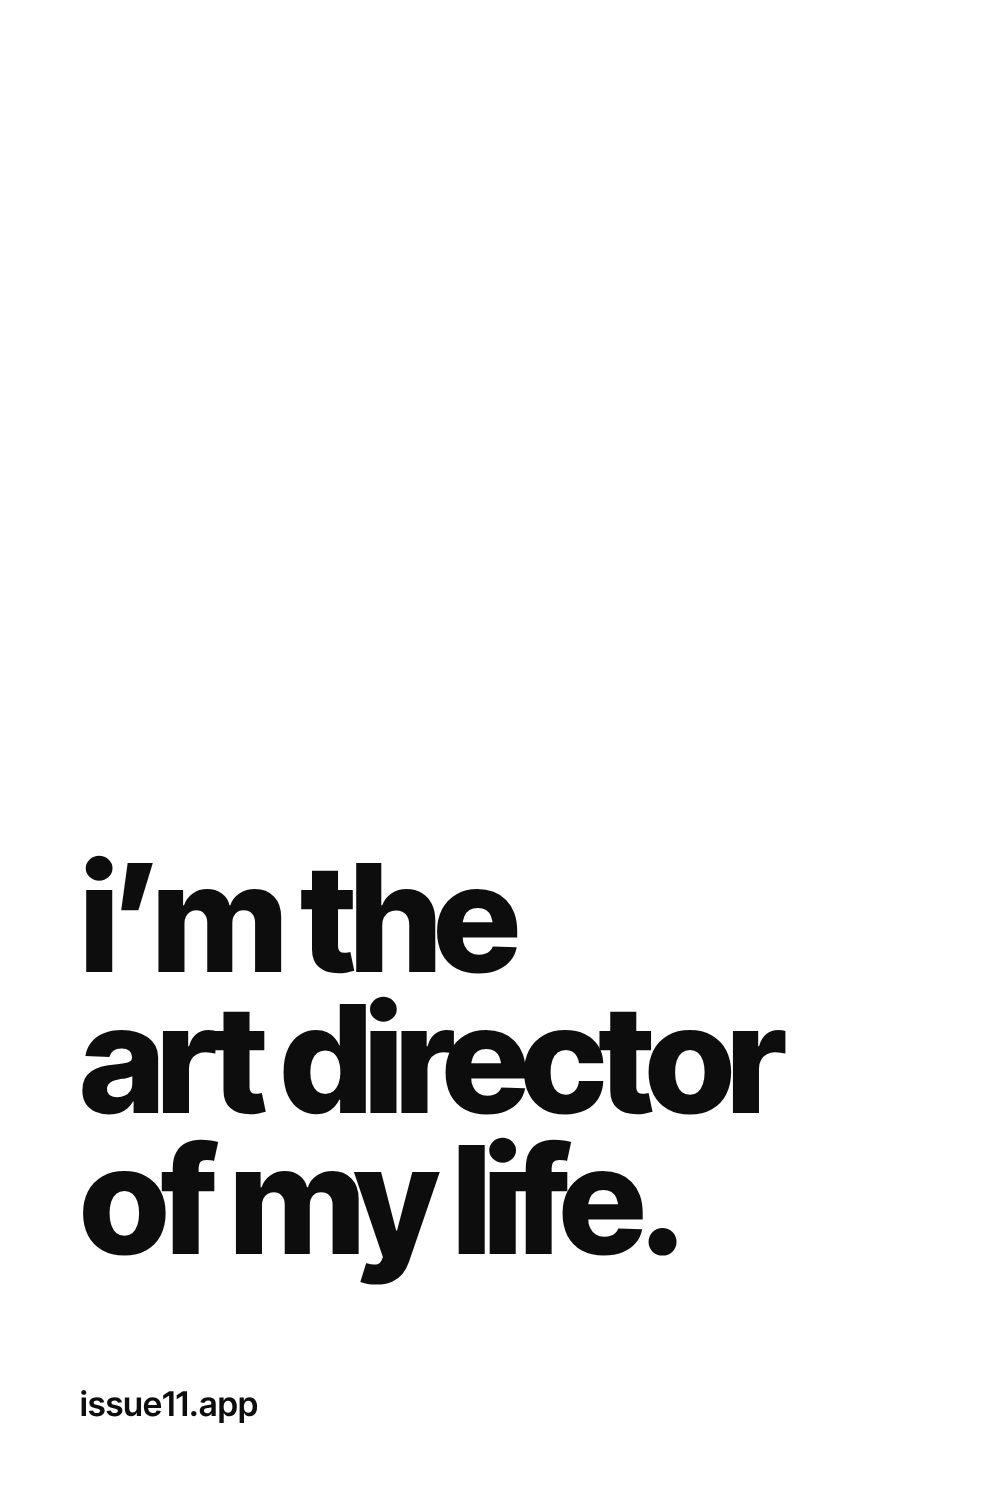
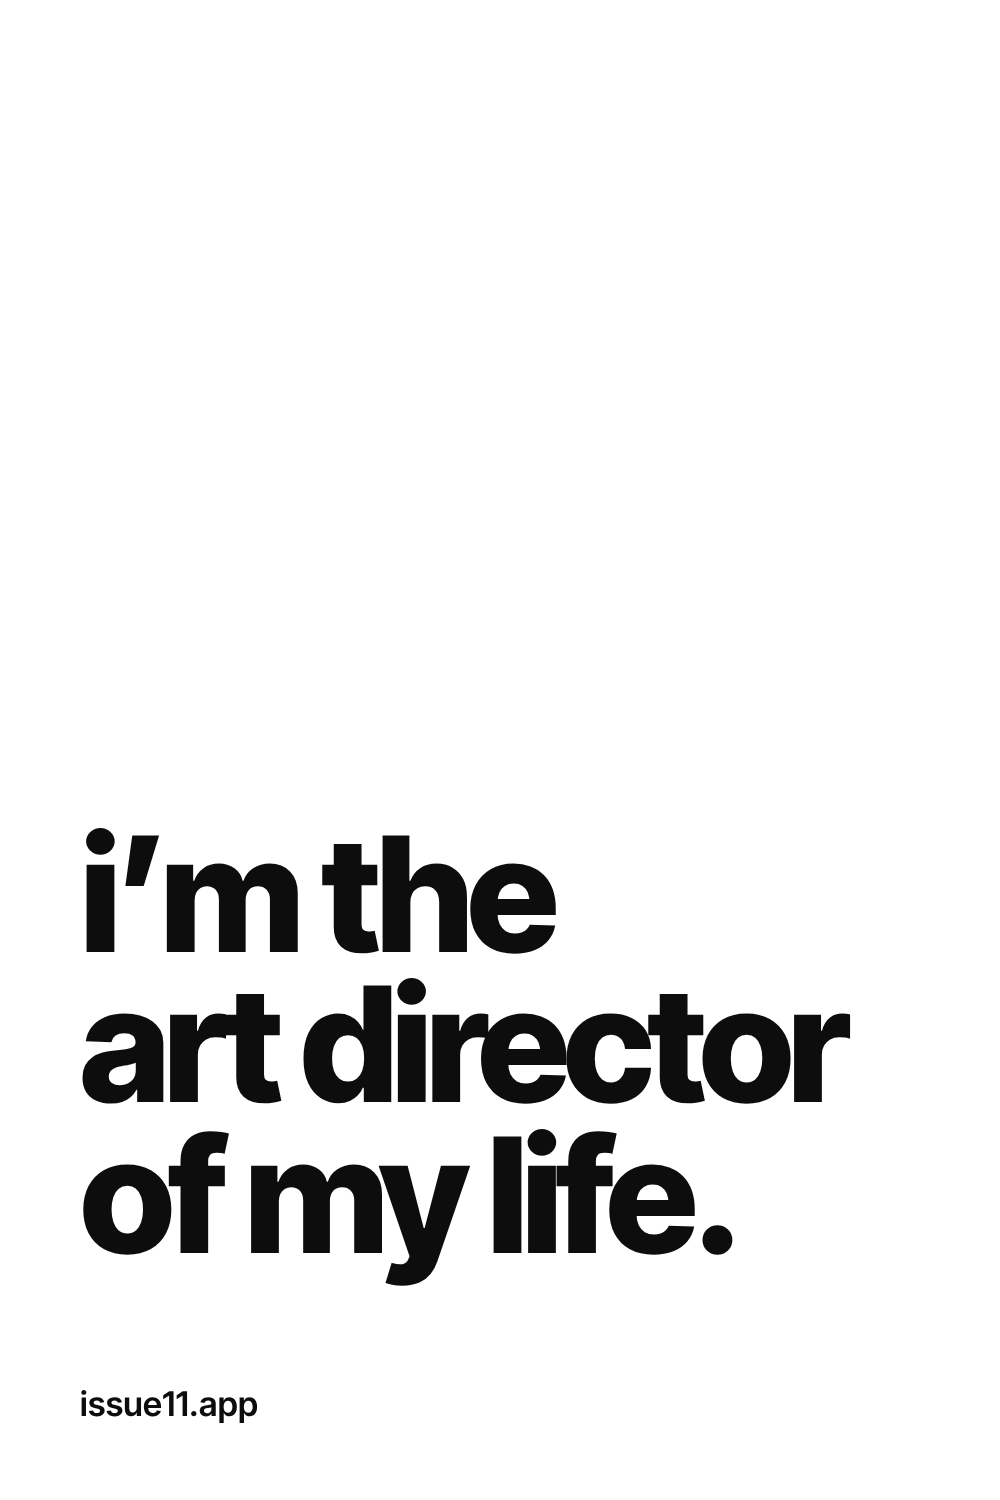
Batch 4 quote pins (in progress)
Claude-Session: https://claude.ai/code/session_013zCndAMB566ZdjtTW5BiS4

Changed region(s): [[0.062, 0.552, 0.868, 0.8587]]

diff --git a/drafts/pinterest/batch4/generator-b4.py b/drafts/pinterest/batch4/generator-b4.py
@@ -12,7 +12,7 @@ def doc(title, inner, bg):
     ns = {"INK": INK, "EMO": EMO}; exec(exec_src, ns); return ns["doc"](title, inner, bg)
 
 # pos: where the quote block sits ("top" | "mid" | "low"); size in px at 1000 wide; lines joined with <br>
-def pin(lines, size, dark, pos="mid", align="left", track=-0.05, lh=0.94):
+def pin(lines, size, dark, pos="mid", align="left", track=-0.04, lh=0.94):
     bg, fg = (INK, W) if dark else (W, INK)
     v = {"top": "justify-content:flex-start; padding-top:150px", "mid": "justify-content:center", "low": "justify-content:flex-end; padding-bottom:230px"}[pos]
     q = "<br>".join(lines)
@@ -22,17 +22,17 @@ def pin(lines, size, dark, pos="mid", align="left", track=-0.05, lh=0.94):
     return bg, inner
 
 P = [
- ("Pin37", "i'm the art director of my life", pin(["i’m the", "art director", "of my life."], 150, False, "low")),
+ ("Pin37", "i'm the art director of my life", pin(["i’m the", "art director", "of my life."], 160, False, "low")),
  ("Pin38", "same girl, bigger dreams", pin(["same girl,", "bigger", "dreams."], 200, True, "top")),
- ("Pin39", "i'm not behind. i'm becoming.", pin(["i’m not", "behind.", "i’m", "becoming."], 190, False, "mid")),
+ ("Pin39", "i'm not behind. i'm becoming.", pin(["i’m not", "behind.", "i’m", "becoming."], 172, False, "mid")),
  ("Pin40", "i keep my circle small", pin(["i keep", "my circle", "small."], 196, True, "low")),
  ("Pin41", "i'm in my building era", pin(["i’m in my", "building", "era."], 196, False, "top")),
- ("Pin42", "become YOU", pin(["become", "YOU."], 250, True, "mid")),
- ("Pin43", "you don't have to see it to believe it", pin(["you don’t have to see it to believe it.", "but you have to participate to create it."], 104, False, "mid", lh=1.0)),
+ ("Pin42", "become YOU", pin(["become", "YOU."], 228, True, "mid")),
+ ("Pin43", "you don't have to see it to believe it", pin(["you don’t have to", "see it to believe it.", "but you have to", "participate to", "create it."], 100, False, "mid", track=-0.03, lh=1.04)),
  # Megan via OPS: "Become your own dream girl" exactly as written (capital B, no period). ISSUE11's brand line: biggest set in the batch.
- ("Pin44", "Become your own dream girl", pin(["Become", "your own", "dream", "girl"], 230, True, "mid")),
+ ("Pin44", "Become your own dream girl", pin(["Become", "your own", "dream", "girl"], 226, True, "mid")),
  ("Pin45", "me 🫱🏻🫲🏽 2027", pin(["me 🫱🏻🫲🏽", "2027"], 230, False, "mid", "center")),
- ("Pin46", "can't talk rn. i'm rebranding.", pin(["can’t talk rn.", "i’m", "rebranding."], 170, True, "low")),
+ ("Pin46", "can't talk rn. i'm rebranding.", pin(["can’t talk", "rn. i’m", "rebranding."], 168, True, "low")),
 ]
 for k, t, (bg, inner) in P:
     open(f"{R}/project/{k}.dc.html", "w").write(doc(f"Quote · {t}", inner, bg))
